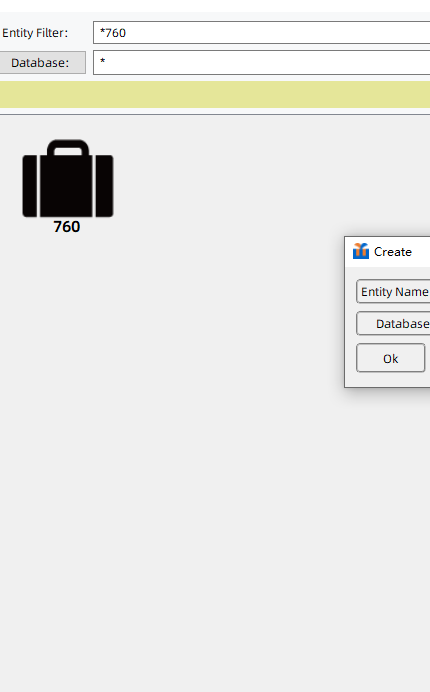
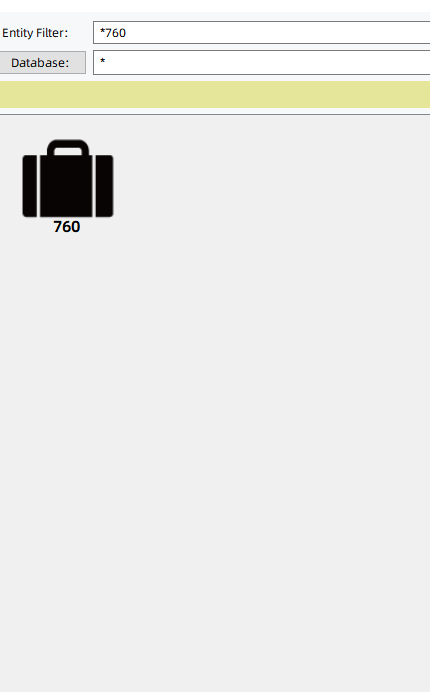
20240105 1 gcc 新增Global—Feature_Histogram用例

Changed region(s): [[0.786, 0.3338, 1.0, 0.5766]]

diff --git a/test_dir/graphic/upper_menu_bar/edit/test_resize.py b/test_dir/graphic/upper_menu_bar/edit/test_resize.py
@@ -1,7 +1,10 @@
+import time
 import pytest
 import os
 from cc.cc_method import GetTestData
 from config_ep.base.base import MyODB
+from config_ep.page import graphic
+from config_ep.page.graphic.left_layer_bar.page_feature_histogram import PageFeatureHistogram
 from config_ep.page.graphic.upper_menu_bar.edit.page_resize import PageGlobal
 from config_ep.page.page_engineering import PageEngineering
 from config_ep.page.graphic.page_graphic import PageGraphic
@@ -12,6 +15,7 @@ class TestGlobal:
         self.engineering = PageEngineering()
         self.graphic = PageGraphic()
         self.global_ = PageGlobal()
+        self.feature_histogram = PageFeatureHistogram()
         self.engineering.engineering_window.set_focus()
 
     @pytest.mark.from_bug
@@ -21,12 +25,12 @@ class TestGlobal:
                                       download_file_compressed_entity_filter_delete_all_jobs_import):
         """
         禅道BUG：3288
-        禅道用例：4702
         :param job_id:44562
         :param epcam_ui_start:
         :return:
         """
         job_name, file_compressed_path = download_file_compressed_entity_filter_delete_all_jobs_import(job_id)
+        time.sleep(2)
         self.engineering.open_job_first_by_double_click()
         self.engineering.open_steps_by_double_click()
         odb_folder_path = MyODB.get_odb_folder_path(file_compressed_path)
@@ -43,5 +47,38 @@ class TestGlobal:
         self.graphic.file_close()
         self.engineering.open_step_by_double_click(job_info, 'net')
         self.graphic.file_close()
+        self.engineering.go_up()
+        self.engineering.go_up()
+
+    @pytest.mark.from_bug
+    @pytest.mark.crash
+    @pytest.mark.parametrize("job_id", GetTestData.get_job_id('Global_Feature_Histogram'))
+    def test_graphic_global_case_4734(self, job_id, epcam_ui_start,
+                                      download_file_compressed_entity_filter_delete_all_jobs_import):
+        """
+        禅道BUG：4464
+        :param job_id:45309
+        :param epcam_ui_start:
+        :return:
+        """
+        job_name, file_compressed_path = download_file_compressed_entity_filter_delete_all_jobs_import(job_id)
+        time.sleep(2)
+        self.engineering.open_job_first_by_double_click()
+        self.engineering.open_steps_by_double_click()
+        odb_folder_path = MyODB.get_odb_folder_path(file_compressed_path)
+        odb_matrix_file = os.path.join(odb_folder_path, r'matrix\matrix')
+        job_info = {}
+        job_info['step_info'] = MyODB.get_step_info_from_odb_file(odb_matrix_file)
+        job_info['layer_info'] = MyODB.get_layer_info_from_odb_file(odb_matrix_file)
+        self.engineering.open_step_by_double_click(job_info, 'orig')
+        self.graphic.click_layer(job_info, 'symbol_type')
+        self.graphic.open_global_window()
+        self.global_.size_input('100')
+        self.global_.click_ok_button()
+        self.global_.information_click_yes_button()
+        self.graphic.click_layer(job_info, 'symbol_type', button_type='right')
+        self.graphic.graphic_window.click_input(coords=graphic.left_layer_bar_feature_histogram_coord)
+        self.feature_histogram.close()
+        self.graphic.close()
         self.engineering.go_up()
         self.engineering.go_up()

diff --git a/test_dir/graphic/upper_menu_bar/step/test_panellizition.py b/test_dir/graphic/upper_menu_bar/step/test_panellizition.py
@@ -1,4 +1,5 @@
 import os
+import time
 import pytest
 from cc.cc_method import GetTestData
 from config_ep.base.base import MyODB
@@ -32,6 +33,7 @@ class TestStepAndRepeatPuzzleByAutomatic:
         :return:
         """
         job_name, file_compressed_path = download_file_compressed_entity_filter_delete_all_jobs_import(job_id)
+        time.sleep(1)
         self.engineering.open_job_first_by_double_click()
         self.engineering.open_steps_by_double_click()
         odb_folder_path = MyODB.get_odb_folder_path(file_compressed_path)
@@ -72,6 +74,7 @@ class TestStepAndRepeatPuzzleByTable:
         :return:
         """
         job_name, file_compressed_path = download_file_compressed_entity_filter_delete_all_jobs_import(job_id)
+        time.sleep(2)
         self.engineering.open_job_first_by_double_click()
         self.engineering.open_steps_by_double_click()
         odb_folder_path = MyODB.get_odb_folder_path(file_compressed_path)
@@ -114,6 +117,7 @@ class TestStepAndRepeatEdit:
         :return:
         """
         job_name, file_compressed_path = download_file_compressed_entity_filter_delete_all_jobs_import(job_id)
+        time.sleep(2)
         self.engineering.open_job_first_by_double_click()
         self.engineering.open_steps_by_double_click()
         odb_folder_path = MyODB.get_odb_folder_path(file_compressed_path)

diff --git a/test_dir/test_engineering.py b/test_dir/test_engineering.py
@@ -171,6 +171,7 @@ class TestUI:
         self.create.database_reset()
         self.create.database_input('666abc-+{_}+{+}ABC!@#$你说啥？')
         self.create.database_reset()
+        self.engineering.job_list_click_empty()  # 鼠标点击空白处
         engineering_file_create_database_pic = self.engineering.engineering_window.capture_as_image()  # 截图
         engineering_file_create_database_pic.save(
             r'C:\cc\share\temp\engineering_file_create_database_pic.png')  # 保存到硬盘
@@ -208,7 +209,6 @@ class TestUI:
         img_current_path = r'C:\cc\share\temp\engineering_file_create_new_job_ok_pic_cut.png'
         rectangle_count = opencv_compare(img_standard_path, img_current_path)
         assert rectangle_count == 0
-        self.create.close()
 
     def test_create_new_job_apply(self, epcam_ui_start):
         self.engineering.entity_filter('760')
@@ -231,7 +231,6 @@ class TestUI:
         img_current_path = r'C:\cc\share\temp\engineering_file_create_new_job_apply_pic_cut.png'
         rectangle_count = opencv_compare(img_standard_path, img_current_path)
         assert rectangle_count == 0
-        self.create.close()
 
     def test_create_exist_job(self, epcam_ui_start):
         self.engineering.entity_filter('760')

diff --git a/test_dir/graphic/test_graphic.py b/test_dir/graphic/test_graphic.py
@@ -1,8 +1,6 @@
 import pytest
 import os
-
 from pywinauto.keyboard import send_keys
-
 from config_ep.page.graphic.page_graphic import PageGraphic
 from config_ep.page.page_engineering import PageEngineering
 from config_ep.page.graphic.left_layer_bar.page_copper_exposed_area import PageCopperExposedArea
@@ -136,6 +134,7 @@ class TestGraphicUI:
         :return:
         """
         job_name, file_compressed_path = download_file_compressed_entity_filter_delete_all_jobs_import(job_id)
+        time.sleep(2)
         self.engineering.open_job_first_by_double_click()
         self.engineering.open_steps_by_double_click()
         odb_folder_path = MyODB.get_odb_folder_path(file_compressed_path)
@@ -176,6 +175,7 @@ class TestGraphicUI:
         :return:
         """
         job_name, file_compressed_path = download_file_compressed_entity_filter_delete_all_jobs_import(job_id)
+        time.sleep(2)
         self.engineering.open_job_first_by_double_click()
         self.engineering.open_steps_by_double_click()
         odb_folder_path = MyODB.get_odb_folder_path(file_compressed_path)

diff --git a/test_dir/graphic/upper_menu_bar/edit/test_reshape.py b/test_dir/graphic/upper_menu_bar/edit/test_reshape.py
@@ -1,3 +1,4 @@
+import time
 import pytest
 import os
 from config_ep import page
@@ -33,6 +34,7 @@ class TestContourToPad:
         :return:
         """
         job_name, file_compressed_path = download_file_compressed_entity_filter_delete_all_jobs_import(job_id)
+        time.sleep(2)
         self.engineering.open_job_first_by_double_click()
         self.engineering.open_steps_by_double_click()
         odb_folder_path = MyODB.get_odb_folder_path(file_compressed_path)
@@ -75,6 +77,7 @@ class TestSubstitute:
         :return:
         """
         job_name, file_compressed_path = download_file_compressed_entity_filter_delete_all_jobs_import(job_id)
+        time.sleep(2)
         self.engineering.open_job_first_by_double_click()
         self.engineering.open_steps_by_double_click()
         odb_folder_path = MyODB.get_odb_folder_path(file_compressed_path)

diff --git a/config_ep/page/graphic/left_layer_bar/page_feature_histogram.py b/config_ep/page/graphic/left_layer_bar/page_feature_histogram.py
@@ -1,0 +1,21 @@
+import os
+import time
+import cv2
+from cc.cc_method import opencv_compare
+from config import RunConfig
+from config_ep import page
+from config_ep.page.graphic import left_layer_bar
+from pywinauto.keyboard import send_keys
+
+
+class PageFeatureHistogram(object):
+    def __init__(self):
+        self.graphic_window = RunConfig.driver_epcam_ui.window(**page.graphic_window_para)
+
+        self.feature_histogram_window = self.graphic_window.child_window(
+            **left_layer_bar.features_histogram_window_para)
+
+        self.temp_path = RunConfig.temp_path_base
+
+    def close(self):
+        self.feature_histogram_window.child_window(title="关闭", control_type="Button").click_input()

diff --git a/test_dir/graphic/upper_menu_bar/edit/test_change.py b/test_dir/graphic/upper_menu_bar/edit/test_change.py
@@ -1,4 +1,5 @@
 import os
+import time
 import pytest
 from config_ep.page.graphic.upper_menu_bar.edit.page_feature_to_drill_pattern import PageFeatureToDrillPattern
 from config_ep.page.page_engineering import PageEngineering
@@ -26,6 +27,7 @@ class TestFeature2drlPattern:
         :return:
         """
         job_name, file_compressed_path = download_file_compressed_entity_filter_delete_all_jobs_import(job_id)
+        time.sleep(2)
         self.engineering.open_job_first_by_double_click()
         self.engineering.open_steps_by_double_click()
         odb_folder_path = MyODB.get_odb_folder_path(file_compressed_path)

diff --git a/test_dir/graphic/upper_menu_bar/edit/test_add_slot_by_drillmap.py b/test_dir/graphic/upper_menu_bar/edit/test_add_slot_by_drillmap.py
@@ -1,4 +1,5 @@
 import os
+import time
 import pytest
 from config_ep.page.graphic.page_graphic import PageGraphic
 from config_ep.page.graphic.upper_menu_bar.edit.page_add_slot_by_drillmap import PageAddSlotByDrillmap
@@ -30,6 +31,7 @@ class TestAddSlotByDrillmap:
         :return:
         """
         job_name, file_compressed_path = download_file_compressed_entity_filter_delete_all_jobs_import(job_id)
+        time.sleep(2)
         self.engineering.open_job_first_by_double_click()
         self.engineering.open_matrix_by_double_click()
         odb_folder_path = MyODB.get_odb_folder_path(file_compressed_path)

diff --git a/config_ep/page/graphic/left_layer_bar/__init__.py b/config_ep/page/graphic/left_layer_bar/__init__.py
@@ -6,6 +6,8 @@ right_click_menu_multi_layer_copy_coords = (40, 160)  # layer右击multi layer c
 right_click_menu_split_layer_coords = (40, 360) # layer右击split layer坐标 -张
 right_click_menu_mark_note_coords = (40, 255)
 
+features_histogram_window_para = {'title': "Features Histogram", 'control_type': "Window"}
+
 """ 以下是Copper/Exposed Area功能模块信息 """
 copper_exposed_area_window_para = {'title': "Copper/Exposed Area", 'control_type': "Window"} # -张
 copper_exposed_area_measurement_copper_area_coords = (113, 51)  # copper_area单选按钮坐标 -张

diff --git a/test_dir/graphic/right_tool_bar/test_break_line.py b/test_dir/graphic/right_tool_bar/test_break_line.py
@@ -1,4 +1,5 @@
 import os
+import time
 import pytest
 from config_ep.page.graphic.page_graphic import PageGraphic
 from config_ep.page.page_engineering import PageEngineering
@@ -24,6 +25,7 @@ class TestBreakLine:
         :return:
         """
         job_name, file_compressed_path = download_file_compressed_entity_filter_delete_all_jobs_import(job_id)
+        time.sleep(2)
         self.engineering.open_job_first_by_double_click()
         self.engineering.open_steps_by_double_click()
         odb_folder_path = MyODB.get_odb_folder_path(file_compressed_path)

diff --git a/test_dir/graphic/upper_menu_bar/rout/test_chain.py b/test_dir/graphic/upper_menu_bar/rout/test_chain.py
@@ -47,8 +47,8 @@ class TestChain:
     @pytest.mark.from_bug
     @pytest.mark.crash
     @pytest.mark.parametrize("job_id", GetTestData.get_job_id("Chain_Warning"))
-    def test_chain_case_4721(self, job_id, epcam_ui_start,
-                             download_file_compressed_entity_filter_delete_all_jobs_import):
+    def test_graphic_chain_case_4721(self, job_id, epcam_ui_start,
+                                     download_file_compressed_entity_filter_delete_all_jobs_import):
         """
         禅道bug:5303
         :param job_id:44817

diff --git a/test_dir/graphic/upper_menu_bar/edit/test_usersymbol.py b/test_dir/graphic/upper_menu_bar/edit/test_usersymbol.py
@@ -1,3 +1,4 @@
+import time
 import pytest
 import os
 from config_ep.page.graphic.page_graphic import PageGraphic
@@ -102,6 +103,7 @@ class TestAngleForUserSymbol:
         :return:
         """
         job_name, file_compressed_path = download_file_compressed_entity_filter_delete_all_jobs_import(job_id)
+        time.sleep(2)
         self.engineering.open_job_first_by_double_click()
         self.engineering.open_steps_by_double_click()
         odb_folder_path = MyODB.get_odb_folder_path(file_compressed_path)
